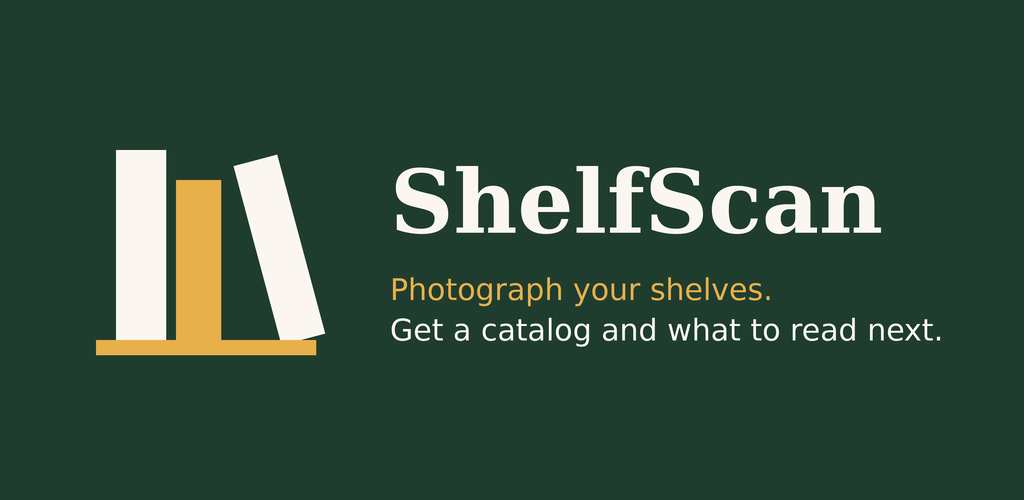
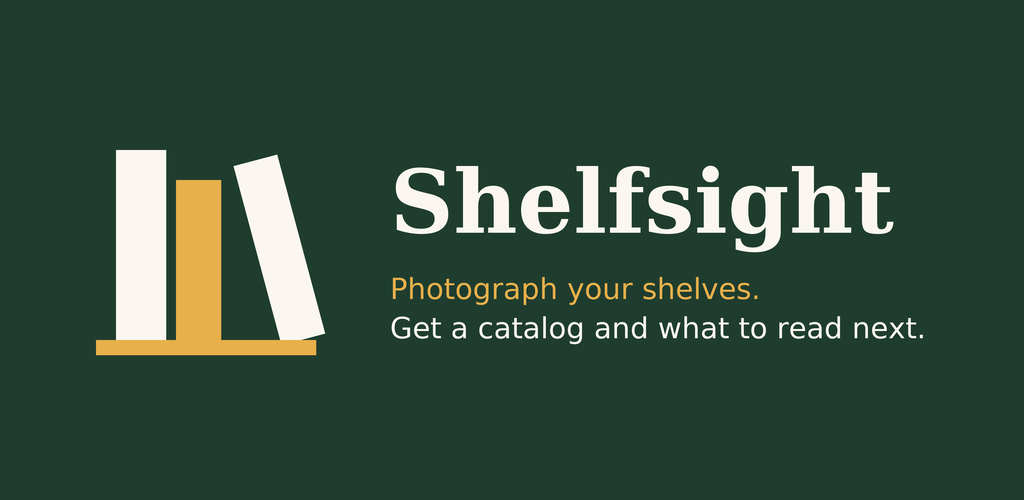
Rename the app to Shelfsight
The user-visible name is now Shelfsight: launcher label, in-app text, the
shelfie card, the exported backup's file name, the Play listing title
("Shelfsight: Bookshelf Scanner"), the docs, the API title and the Open
Library User-Agent. applicationId becomes com.shelfsight.app, so it installs
as a new app. The Kotlin package and namespace stay com.shelfscan.app, as do
env var names and the backup format id, so old exports still import.

The release guide and release.properties.example now use the shelfsight
tunnel, hostname and upload key names. The feature graphic is regenerated
(the icon has no lettering and is unchanged); the art script can take its
DejaVu fonts from STORE_ART_FONTS on Windows.

Changed region(s): [[0.375, 0.54, 0.9062, 0.69], [0.625, 0.33, 0.875, 0.51]]

diff --git a/android/app/src/main/java/com/shelfscan/app/util/Errors.kt b/android/app/src/main/java/com/shelfscan/app/util/Errors.kt
@@ -9,16 +9,16 @@ fun Throwable.friendlyMessage(): String = when (this) {
     // OkHttp reports a connect timeout as a SocketTimeoutException too; that means the server was never reached.
     is SocketTimeoutException ->
         if (message?.contains("connect", ignoreCase = true) == true)
-            "Can't reach the ShelfScan server. Check the server address and port, and that it's running."
+            "Can't reach the Shelfsight server. Check the server address and port, and that it's running."
         else "The server took too long. Try fewer photos at once."
-    is IOException -> "Can't reach the ShelfScan server. Check your connection and that the server is running."
+    is IOException -> "Can't reach the Shelfsight server. Check your connection and that the server is running."
     is HttpException -> when (code()) {
         401 -> "The server rejected this app's token."
         // The app is newer than the running server (e.g. barcode lookup on a server started before it existed).
         404 -> "The server doesn't know this feature yet. Restart it with the latest code."
         413 -> "That photo is too large."
         415 -> "That image format isn't supported."
-        502 -> "The AI model server failed. Check the ShelfScan server log."
+        502 -> "The AI model server failed. Check the Shelfsight server log."
         504 -> "The AI model took too long. Try fewer photos at once."
         else -> "Server error (${code()}). Try again in a moment."
     }

diff --git a/android/app/src/main/java/com/shelfscan/app/ui/library/Shelfie.kt b/android/app/src/main/java/com/shelfscan/app/ui/library/Shelfie.kt
@@ -129,7 +129,7 @@ private suspend fun share(context: Context, bitmap: Bitmap, stats: ShelfStats) {
     val send = Intent(Intent.ACTION_SEND).apply {
         type = "image/png"
         putExtra(Intent.EXTRA_STREAM, uri)
-        putExtra(Intent.EXTRA_TEXT, "${stats.headline}. Scanned with ShelfScan.")
+        putExtra(Intent.EXTRA_TEXT, "${stats.headline}. Scanned with Shelfsight.")
         clipData = ClipData.newRawUri(null, uri) // lets the share sheet show a preview of the image
         addFlags(Intent.FLAG_GRANT_READ_URI_PERMISSION)
     }
@@ -185,8 +185,8 @@ object ShelfieCard {
         stats.topAuthor?.let {
             text(canvas, "Most on the shelf: $it (${stats.topAuthorCount})", PAD, 1246f, 32f, serif, withAlpha(PAPER, 0.8f), usable)
         }
-        text(canvas, "ShelfScan", PAD, 1300f, 30f, serifBold, BRASS, usable)
-        val brandWidth = paint(30f, serifBold, BRASS).measureText("ShelfScan")
+        text(canvas, "Shelfsight", PAD, 1300f, 30f, serifBold, BRASS, usable)
+        val brandWidth = paint(30f, serifBold, BRASS).measureText("Shelfsight")
         text(canvas, "  ·  scan your shelf", PAD + brandWidth, 1300f, 28f, serif, withAlpha(PAPER, 0.6f), usable - brandWidth)
         return bitmap
     }

diff --git a/android/app/src/main/java/com/shelfscan/app/data/BookRepository.kt b/android/app/src/main/java/com/shelfscan/app/data/BookRepository.kt
@@ -215,7 +215,7 @@ class BookRepository(
         val text = context.contentResolver.openInputStream(uri)?.use { it.readBytes().decodeToString() }
             ?: error("Couldn't open that file")
         val export = runCatching { backupJson.decodeFromString(LibraryExport.serializer(), text) }.getOrNull()
-        if (export == null || export.format != LibraryExport.FORMAT) error("That isn't a ShelfScan library file")
+        if (export == null || export.format != LibraryExport.FORMAT) error("That isn't a Shelfsight library file")
         val books = export.books.filter { it.title.isNotBlank() && it.author.isNotBlank() }.map { it.toBook() }
         val addedBooks = dao.insertAll(books).count { it != -1L }
         val owned = dao.allKeys().toSet()

diff --git a/android/app/src/main/java/com/shelfscan/app/ui/scan/ScanScreen.kt b/android/app/src/main/java/com/shelfscan/app/ui/scan/ScanScreen.kt
@@ -309,7 +309,7 @@ private fun Queued(photoCount: Int, onScanMore: () -> Unit, onDone: () -> Unit) 
         Text("Saved for later", style = MaterialTheme.typography.headlineSmall)
         Spacer(Modifier.height(8.dp))
         Text(
-            "Can't reach the ShelfScan server right now. Your ${if (photoCount == 1) "photo is" else "$photoCount photos are"} " +
+            "Can't reach the Shelfsight server right now. Your ${if (photoCount == 1) "photo is" else "$photoCount photos are"} " +
                 "saved and will be read automatically once it's back. They'll wait here under Add books for you to review.",
             textAlign = TextAlign.Center, color = MaterialTheme.colorScheme.onSurfaceVariant,
         )

diff --git a/android/app/src/main/java/com/shelfscan/app/ui/library/LibraryScreen.kt b/android/app/src/main/java/com/shelfscan/app/ui/library/LibraryScreen.kt
@@ -149,7 +149,7 @@ fun LibraryScreen(
                     onSort = vm::setSort,
                     onFilter = vm::setFilter,
                     onShare = { sharing = true },
-                    onExport = { exporter.launch("shelfscan-library-${LocalDate.now()}.json") },
+                    onExport = { exporter.launch("shelfsight-library-${LocalDate.now()}.json") },
                     // Some file managers label .json files as plain text or generic binary.
                     onImport = { importer.launch(arrayOf("application/json", "text/plain", "application/octet-stream")) },
                 )

diff --git a/android/app/src/main/java/com/shelfscan/app/ui/discover/DiscoverScreen.kt b/android/app/src/main/java/com/shelfscan/app/ui/discover/DiscoverScreen.kt
@@ -159,7 +159,7 @@ fun DiscoverScreen(
         if (state.libraryEmpty) {
             EmptyState(
                 title = "Nothing to go on yet",
-                body = "Add a few books to your library and ShelfScan will suggest what to read next and flag new releases from your authors.",
+                body = "Add a few books to your library and Shelfsight will suggest what to read next and flag new releases from your authors.",
                 action = "Scan my books",
                 onAction = onScan,
             )

diff --git a/docs/store/render_store_art.py b/docs/store/render_store_art.py
@@ -1,5 +1,7 @@
-# Usage: python docs/store/render_store_art.py docs/store   (needs: pip install pillow; uses DejaVu fonts)
+# Usage: python docs/store/render_store_art.py docs/store   (needs: pip install pillow; uses DejaVu fonts,
+# see STORE_ART_FONTS below)
 """Render Play Store art from the app's adaptive-icon vector (res/drawable/ic_launcher_foreground.xml)."""
+import os
 import sys
 from PIL import Image, ImageDraw, ImageFont
 
@@ -49,12 +51,15 @@ def fit(path, text, size):
         size -= 1
 
 
-SERIF = "/usr/share/fonts/truetype/dejavu/DejaVuSerif-Bold.ttf"
-SANS = "/usr/share/fonts/truetype/dejavu/DejaVuSans.ttf"
+# DejaVu, as installed on Linux. Elsewhere, point STORE_ART_FONTS at a folder holding the same two files
+# (matplotlib's wheel ships them under matplotlib/mpl-data/fonts/ttf).
+FONTS = os.environ.get("STORE_ART_FONTS", "/usr/share/fonts/truetype/dejavu")
+SERIF = os.path.join(FONTS, "DejaVuSerif-Bold.ttf")
+SANS = os.path.join(FONTS, "DejaVuSans.ttf")
 lines = ["Photograph your shelves.", "Get a catalog and what to read next."]
-title = fit(SERIF, "ShelfScan", 88)
+title = fit(SERIF, "Shelfsight", 88)
 body = min((fit(SANS, t, 30) for t in lines), key=lambda f: f.size)
-d.text((x, 150 * SS), "ShelfScan", font=title, fill=PAPER)
+d.text((x, 150 * SS), "Shelfsight", font=title, fill=PAPER)
 d.text((x, 272 * SS), lines[0], font=body, fill=BRASS)
 d.text((x, 272 * SS + body.size * 1.35), lines[1], font=body, fill=PAPER)
 fg.resize((1024, 500), Image.LANCZOS).save(f"{out}/feature-graphic-1024x500.png")

diff --git a/backend/app/main.py b/backend/app/main.py
@@ -1,4 +1,4 @@
-"""ShelfScan backend: a thin proxy between the Android app, Claude, and Google Books."""
+"""Shelfsight backend: a thin proxy between the Android app, Claude, and Google Books."""
 from __future__ import annotations
 
 import asyncio
@@ -85,7 +85,7 @@ async def lifespan(app: FastAPI):
     await state.http.aclose()
 
 
-app = FastAPI(title="ShelfScan", lifespan=lifespan)
+app = FastAPI(title="Shelfsight", lifespan=lifespan)
 
 
 def check_token(x_app_token: str | None = Header(default=None)):

diff --git a/backend/app/openlibrary.py b/backend/app/openlibrary.py
@@ -19,7 +19,7 @@ SEARCH_URL = "https://openlibrary.org/search.json"
 WORK_URL = "https://openlibrary.org{key}.json"
 COVER_URL = "https://covers.openlibrary.org/b/id/{id}-{size}.jpg"
 # Open Library asks API clients to identify themselves.
-HEADERS = {"User-Agent": "ShelfScan/0.1 (personal book-library app)"}
+HEADERS = {"User-Agent": "Shelfsight/0.1 (personal book-library app)"}
 
 
 # The edition Open Library matched within each work (with an ISBN query, that ISBN's edition).

diff --git a/docs/RELEASE.md b/docs/RELEASE.md
@@ -1,7 +1,7 @@
-# Releasing ShelfScan
+# Releasing Shelfsight
 
 Goal: a signed build on Google Play's **internal testing** track, so a few people (your PM partner first) install
-ShelfScan from the Play Store link without Android Studio.
+Shelfsight from the Play Store link without Android Studio.
 
 Internal testing has no prerequisites. Publishing to everyone later does: a **personal** developer account created
 after 13 Nov 2023 must first run a **closed test with at least 12 testers opted in for 14 consecutive days**
@@ -44,20 +44,20 @@ Cloudflare (free plan is fine; buy one through Cloudflare if you don't have one)
 2. In PowerShell:
    ```powershell
    cloudflared tunnel login                         # opens a browser; pick your domain
-   cloudflared tunnel create shelfscan
-   cloudflared tunnel route dns shelfscan shelfscan.<your-domain>
+   cloudflared tunnel create shelfsight
+   cloudflared tunnel route dns shelfsight shelfsight.<your-domain>
    ```
 3. Create `%USERPROFILE%\.cloudflared\config.yml` (the `create` command printed the credentials file path):
    ```yaml
-   tunnel: shelfscan
+   tunnel: shelfsight
    credentials-file: C:\Users\<you>\.cloudflared\<tunnel-id>.json
    ingress:
-     - hostname: shelfscan.<your-domain>
+     - hostname: shelfsight.<your-domain>
        service: http://localhost:8001
      - service: http_status:404
    ```
-   Only the ShelfScan server (8001) is exposed. Never point the tunnel at the gateway (8000) or Redis.
-4. Run it: `cloudflared tunnel run shelfscan` (leave that window open). To have it start with Windows, follow
+   Only the Shelfsight server (8001) is exposed. Never point the tunnel at the gateway (8000) or Redis.
+4. Run it: `cloudflared tunnel run shelfsight` (leave that window open). To have it start with Windows, follow
    Cloudflare's "run as a service on Windows" instructions: the service runs as the system account and doesn't read
    the config from your user folder, so it needs its own copy.
 
@@ -65,21 +65,21 @@ Cloudflare (free plan is fine; buy one through Cloudflare if you don't have one)
 1. `backend\.env`: copy `.env.example` and fill it in. Set a long random **`APP_TOKEN`** (e.g. the output of
    `[guid]::NewGuid().ToString("N") + [guid]::NewGuid().ToString("N")` in PowerShell).
 2. Start, in this order: the gateway (port 8000), Redis (optional), then `backend\start-server.ps1`.
-3. Check from your phone **on mobile data**: `https://shelfscan.<your-domain>/health` should show `{"ok":true}`.
+3. Check from your phone **on mobile data**: `https://shelfsight.<your-domain>/health` should show `{"ok":true}`.
 
 ### D. Build the app
 1. Create the upload key (step 1 below) and `android\release.properties` with
-   `serverUrl=https://shelfscan.<your-domain>/` and `appToken=` the same value as the server's `APP_TOKEN`.
+   `serverUrl=https://shelfsight.<your-domain>/` and `appToken=` the same value as the server's `APP_TOKEN`.
 2. Also put the token in `android\local.properties` as `shelfscan.appToken=...` so debug builds keep working.
    Not in `gradle.properties`: that file is committed, and this repo is public.
 3. Build, install on your phone and smoke test (step 2 below). This is exactly what testers will get.
 
 ### E. Play Console (after approval)
-1. **Create app**: name ShelfScan, App, Free.
+1. **Create app**: name Shelfsight, App, Free.
 2. **Testing → Internal testing → Testers**: create an email list (you and your PM partner), save.
 3. **Create new release**: upload `app-release.aab`, add release notes, roll out. If the dashboard lists setup
    tasks it needs first (e.g. privacy policy, app access, ads, content rating), complete them using section 3.
-4. Copy the **opt-in link** from the Testers tab and send it to testers. They accept, then install ShelfScan from
+4. Copy the **opt-in link** from the Testers tab and send it to testers. They accept, then install Shelfsight from
    the Play Store; later releases arrive as normal updates.
 
 Your PC must be on, with the gateway, server and tunnel running, whenever testers use the app.
@@ -89,15 +89,15 @@ Your PC must be on, with the gateway, server and tunnel running, whenever tester
 1. **Upload key.** Use the `keytool` that ships with Android Studio (in its `jbr\bin` folder):
    ```powershell
    mkdir D:\keys
-   & "<Android Studio folder>\jbr\bin\keytool.exe" -genkeypair -v -keystore D:\keys\shelfscan-upload.jks `
-     -alias shelfscan-upload -keyalg RSA -keysize 2048 -validity 10000
+   & "<Android Studio folder>\jbr\bin\keytool.exe" -genkeypair -v -keystore D:\keys\shelfsight-upload.jks `
+     -alias shelfsight-upload -keyalg RSA -keysize 2048 -validity 10000
    ```
    Back up the `.jks` file and its password somewhere safe (a password manager). With Play App Signing, Google holds
    the real signing key and a lost upload key can be reset, but it's slow.
 2. **`android/release.properties`**: copy `android/release.properties.example`, fill in the key details and the HTTPS
    `serverUrl` from step 0. It's git-ignored: never commit it.
 3. **Play Console**: create a developer account (one-time fee, identity verification), then **Create app** →
-   ShelfScan, App, Free. Accept the developer policies.
+   Shelfsight, App, Free. Accept the developer policies.
 
 ## 2. Every release
 

diff --git a/docs/privacy-policy.md b/docs/privacy-policy.md
@@ -1,12 +1,12 @@
 ---
-title: ShelfScan privacy policy
+title: Shelfsight privacy policy
 ---
 
-# ShelfScan privacy policy
+# Shelfsight privacy policy
 
 _Last updated: 17 November 2026_
 
-ShelfScan ("the app") helps you catalog the physical books you own. This policy explains what the app keeps on
+Shelfsight ("the app") helps you catalog the physical books you own. This policy explains what the app keeps on
 your phone, what it sends off it, and where that goes.
 
 ## What stays on your phone
@@ -15,9 +15,9 @@ stored **only on your phone**. They are included in your phone's Android backup 
 any export file you choose to create.
 
 ## What is sent, and why
-The app works by sending some information to the ShelfScan server, which is run by the app's developer:
+The app works by sending some information to the Shelfsight server, which is run by the app's developer:
 
-- **Photos you take or choose for scanning.** Sent to the ShelfScan server, which passes them to an AI model to read
+- **Photos you take or choose for scanning.** Sent to the Shelfsight server, which passes them to an AI model to read
   the book titles. The AI model runs on the developer's own computer; photos are **not** sent to any third-party AI
   service. Neither the server nor the model stores your photos: each photo is processed and then discarded. If the
   server can't be reached, photos wait on your phone until they can be sent, and are deleted from your phone after
@@ -34,7 +34,7 @@ phone loads cover images directly from those services' image addresses, as any w
 
 All traffic between the app and the server is encrypted (HTTPS).
 
-## What ShelfScan does not do
+## What Shelfsight does not do
 No accounts, no ads, no analytics or tracking SDKs, and no selling or sharing of your data. The app asks for no
 camera permission: photos come from your camera app or photo picker, and barcodes are read on your phone by Google
 Play services' code scanner.
@@ -49,7 +49,7 @@ working. Logs are deleted after **30 days**.
   it is linked to an account or to your identity. If you'd still like anything removed, email the address below.
 
 ## Children
-ShelfScan isn't directed at children under 13.
+Shelfsight isn't directed at children under 13.
 
 ## Changes
 If this policy changes, the new version will be posted at this address with a new "Last updated" date.

diff --git a/docs/store/listing.md b/docs/store/listing.md
@@ -1,7 +1,7 @@
 # Play Store listing (draft)
 
 **App name** (30 chars max)
-ShelfScan: Book Library
+Shelfsight: Bookshelf Scanner
 
 **Short description** (80 chars max)
 Photograph your shelves to catalog your books, then see what to read next.
@@ -11,7 +11,7 @@ Photograph your shelves to catalog your books, then see what to read next.
 Turn the books on your shelves into a library you can search, sort and carry with you.
 
 **Scan your shelves**
-Take a photo of a row of spines or a stack of covers, and ShelfScan reads every title it can see. Check the list,
+Take a photo of a row of spines or a stack of covers, and Shelfsight reads every title it can see. Check the list,
 fix anything misread, and add them in one go. For a single book, scan its barcode or type its title.
 
 **A library that looks like one**
